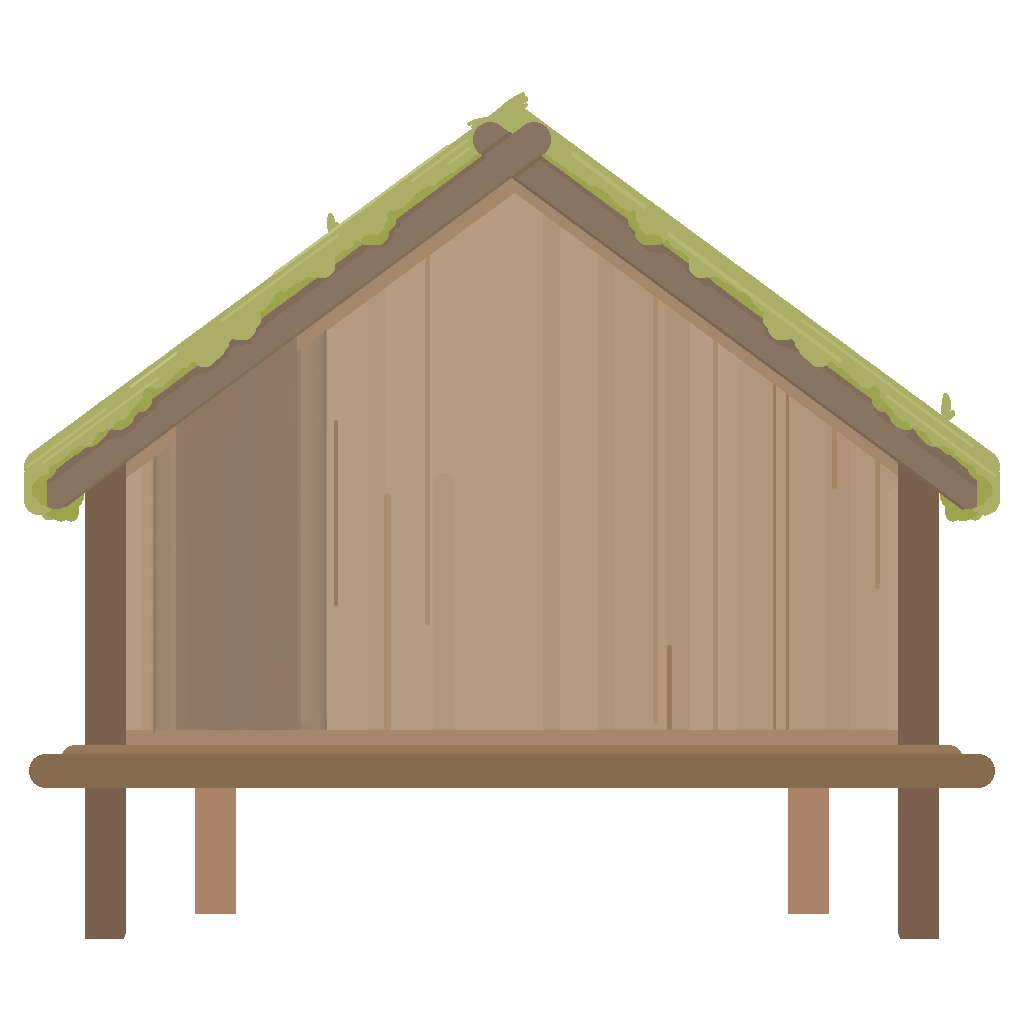
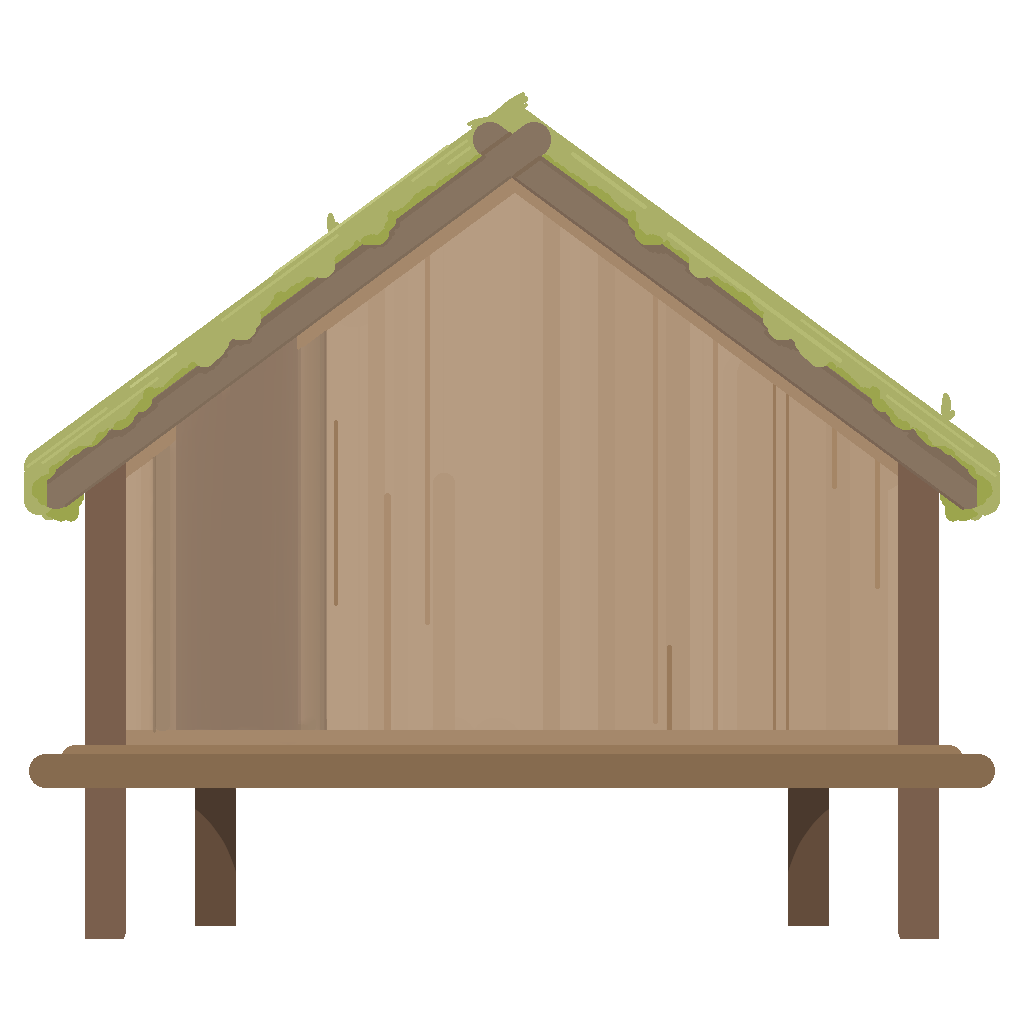
* 在`SmoothMoveBase`中发现如果在调用结束的回调中会给回调函数赋新值的时候会有问题，已修复 * 更换新版Home和猎庐图标

Changed region(s): [[0.75, 0.75, 0.8125, 0.9062], [0.1875, 0.75, 0.25, 0.9062]]

diff --git a/Assets/GameLogic/View/ElementView/Component/SmoothChange/Base/SmoothChangeBase.cs b/Assets/GameLogic/View/ElementView/Component/SmoothChange/Base/SmoothChangeBase.cs
@@ -61,10 +61,17 @@ namespace GameLogic.View
 				_curModID = 0;
 				_running = false;
 
-				_stopCallback?.Invoke();
-				_stopCallback = null;
-				_doneCallback?.Invoke();
-				_doneCallback = null;
+				// 这里可能需要再回调中修改stopCallBack的值，就不做延后处理了，在这里用个临时变量搞一下
+				if (_stopCallback != null) {
+					var _tmpStopCallback = new Action(_stopCallback);
+					_stopCallback = null;
+					_tmpStopCallback?.Invoke();
+				}
+				if (_doneCallback != null) {
+					var _tmpDoneCallback = new Action(_doneCallback);
+					_doneCallback = null;
+					_tmpDoneCallback?.Invoke();
+				}
 			}
 		}
 		private void OnInterprete() {

diff --git a/HungerOrHarvestDevLog/2025.06.12.md b/HungerOrHarvestDevLog/2025.06.12.md
@@ -1,0 +1,8 @@
+# 2025.06.12
+
+
+
+## 项目进展
+
+* 在`SmoothMoveBase`中发现如果在调用结束的回调中会给回调函数赋新值的时候会有问题，已修复
+* 更换新版Home和猎庐图标
